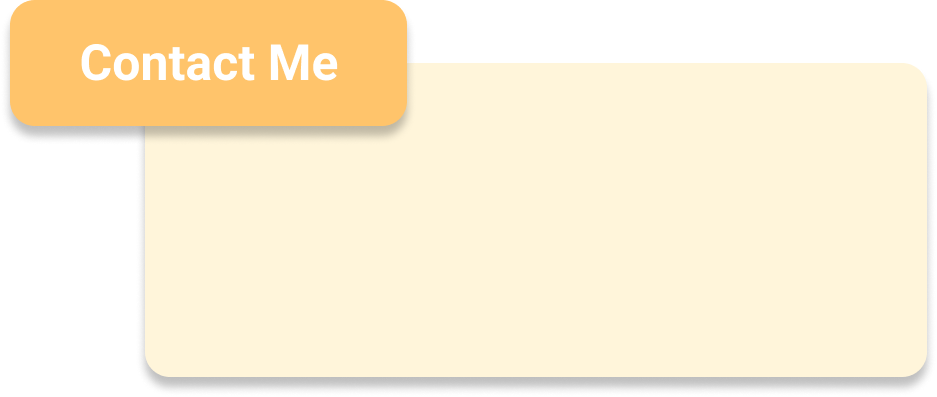
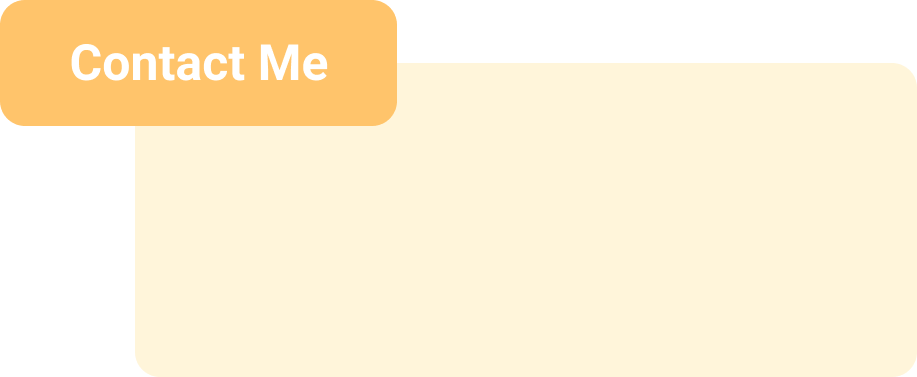
finalize contact me page

diff --git a/contact.html b/contact.html
@@ -79,20 +79,22 @@
       <!-- Nagivation End -->  
     
     <div class="container-fluid">   
-        <img src="assets/images/contact.png" class="contact-bg center-block img-responsive" alt="contact me">
-        <div class="centered-text">
-            <p>
-                Email:<span>lingjief@andrew.cmu.edu</span>
-            </p>
-            <p>
-                Phone:<span>412-926-7874</span>
-            </p>
+        <div id="contact-info"> 
+            <img src="assets/images/contact.png" class="contact-bg center-block img-responsive" alt="contact me">
+            <div class="centered-text">
+                  <p>
+                        Email: <span>lingjief@andrew.cmu.edu</span>
+                  </p>
+                  <p>
+                        Phone: <span>412-926-7874</span>
+                  </p>
+            </div>
         </div>
-
+        
         <ul class="list-inline" id="followme">
-            <li class="list-inline-item"><img src="assets/images/linkedin.png" class="img-fluid" id="linkedin" alt="linkedin" onclick="window.open('https://www.linkedin.com/in/lingjie-feng-02392219b/');"></li>
-            <li class="list-inline-item"><img src="assets/images/github.png" class="img-fluid" id="github" alt="github" onclick="window.open('https://github.com/lingjie-feng');"></li>
-            <li class="list-inline-item"><img src="assets/images/fb.png" class="img-fluid" id="facebook" alt="facebook" onclick="window.open('https://www.facebook.com/ling.feng.7965/');"></li>
+            <li class="list-inline-item"><img src="assets/images/linkedin.png" class="img-responsive" id="linkedin" alt="linkedin" onclick="window.open('https://www.linkedin.com/in/lingjie-feng-02392219b/');"></li>
+            <li class="list-inline-item"><img src="assets/images/github.png" class="img-responsive" id="github" alt="github" onclick="window.open('https://github.com/lingjie-feng');"></li>
+            <li class="list-inline-item"><img src="assets/images/fb.png" class="img-responsive" id="facebook" alt="facebook" onclick="window.open('https://www.facebook.com/ling.feng.7965/');"></li>
         </ul>
     </div>
 

diff --git a/assets/css/style.css b/assets/css/style.css
@@ -218,30 +218,35 @@
 
 /* CONTACT ME PAGE */
 .contact-bg {
-    margin-top: 8em;
     width: 50%;
 }
 
 /* Centered text */
 .centered-text {
   position: absolute;
-  top: 43%;
+  z-index: 100;
+  top: 40%;
   left: 53%;
   transform: translate(-50%, -50%);
 }
 
 .centered-text p{
-  font-size: 30px;
   color: gray;
-}
-
-#followme {
-  width: 30%;
-  margin: auto;
+  font-size: 2vw;
 }
 
 #linkedin:hover,
 #github:hover,
 #facebook:hover {
   cursor: pointer;
+}
+
+.list-inline img{
+    width: 70%
+}
+
+#followme {
+    width: 25%;
+    margin-top: 2%;
+    margin-left: 42%;
 }
